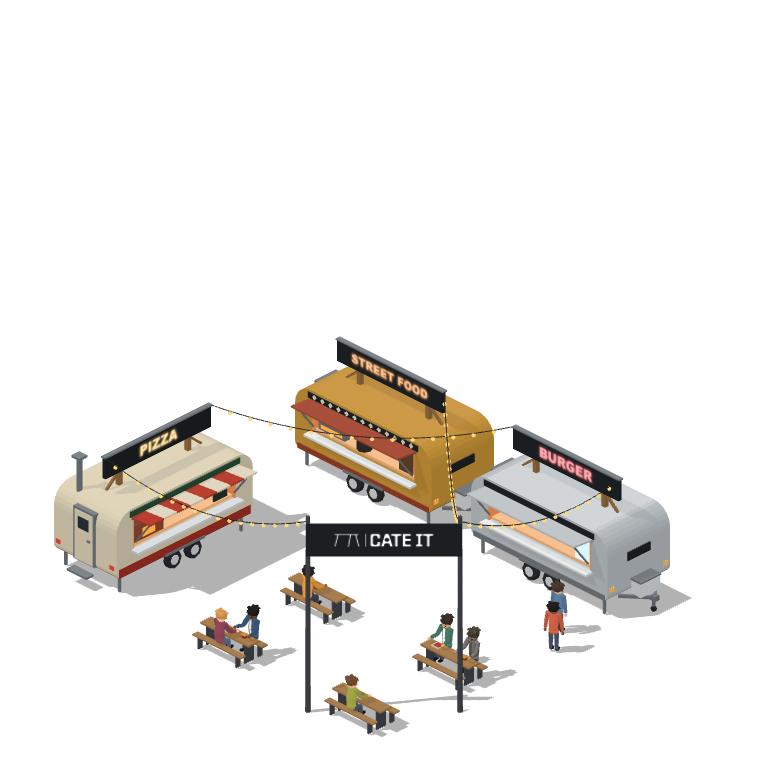
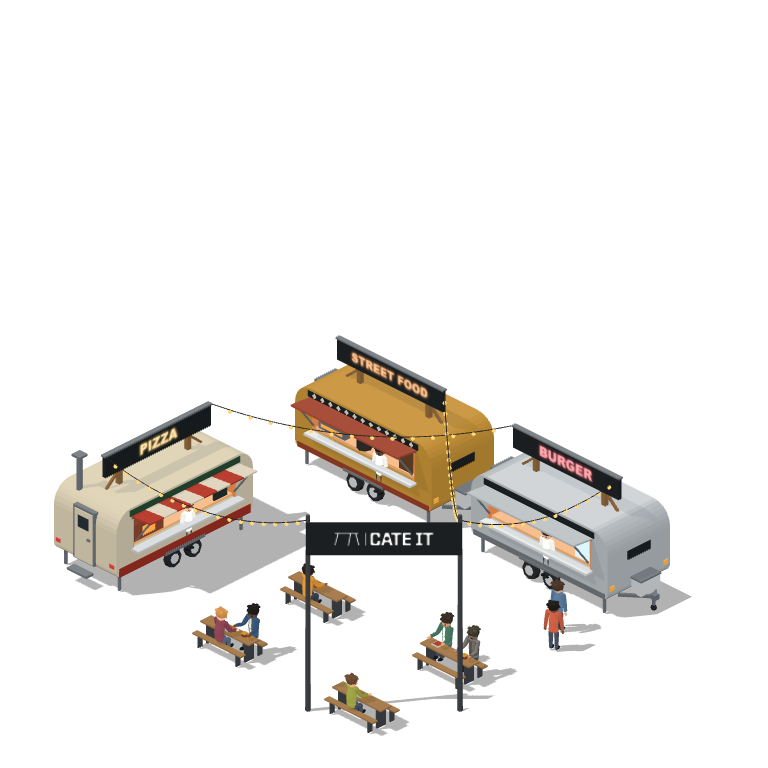
Food truck square: a cook in each hatch who waves when you step up and hands the food over; the camera eases in at the hatch
Gustav, 2026-10-21 (options A, B, C and F): a cook stands behind each counter (low and forward, under the awning's
shadow line from the city camera). New BuildingDefinition.reactions: strips cut out of the still sprite like the ambient
loop; MainScene plays the wave once when the player comes within the radius, serveThenWalk() plays the hand-over (the
food on the counter) before the avatar walks to its table, and the strips pause while the visitor sits. Hatch cards
carry zoomIn: the camera eases in one zoom step while the card is open and back out after. city_truck_loop.mjs logs the
zoom and shoots the hand-over; natural: true keeps the city's own camera.

diff --git a/components/city/pogicity/phaser/MainScene.ts b/components/city/pogicity/phaser/MainScene.ts
@@ -246,6 +246,9 @@ export class MainScene extends Phaser.Scene {
           frameWidth: building.ambient.frameWidth, frameHeight: building.ambient.frameHeight,
         });
       }
+      (building.reactions ?? []).forEach((r, i) => {
+        this.load.spritesheet(`${building.id}_reaction${i}`, r.sheet, { frameWidth: r.frameWidth, frameHeight: r.frameHeight });
+      });
       if (building.nightLights) {
         this.load.spritesheet(`${building.id}_lights`, building.nightLights.sheet, {
           frameWidth: building.nightLights.frameWidth, frameHeight: building.nightLights.frameHeight,
@@ -442,6 +445,7 @@ export class MainScene extends Phaser.Scene {
     this.updateInteriorState(playerPos.gridX, playerPos.gridY);
     this.updateDoors();
     this.updateMoments();
+    this.updateReactions();
 
     // Render player
     this.playerController.render((x, y, offset) => this.depthFromSortPoint(x, y, offset));
@@ -1625,6 +1629,24 @@ export class MainScene extends Phaser.Scene {
     this.activeBeat = key;
     this.beatSince = this.time.now;
     this.events.emit("interiorBeatChanged", next);
+    this.updateBeatZoom(next && INTERIOR_BEATS[next.buildingId]?.[next.beat]?.zoomIn ? key : null);
+  }
+
+  // Cards with zoomIn (the food truck hatches): ease in one zoom step on the player while the card is open, back after
+  private beatZoomFrom: { key: string; zoom: number } | null = null;
+  private updateBeatZoom(key: string | null): void {
+    if ((this.beatZoomFrom?.key ?? null) === key) return;
+    const camera = this.cameras.main;
+    const p = this.playerController!.getPosition();
+    if (key && !this.beatZoomFrom) {
+      this.beatZoomFrom = { key, zoom: camera.zoom };
+      const target = Math.min(Math.floor(camera.zoom) + 1, 8);
+      this.moveCamera(p.worldX - camera.width / 2, p.worldY - camera.height / 2, target);
+    } else if (!key && this.beatZoomFrom) {
+      const zoom = this.beatZoomFrom.zoom;
+      this.beatZoomFrom = null;
+      this.moveCamera(p.worldX - camera.width / 2, p.worldY - camera.height / 2, zoom);
+    } else if (key && this.beatZoomFrom) this.beatZoomFrom.key = key;
   }
 
   // Sit-and-look moments (lib/city/interiorBeats.ts seat): a short pause on the stand tile, then the avatar walks into
@@ -2302,6 +2324,7 @@ export class MainScene extends Phaser.Scene {
     this.buildingSpriteInfo.clear();
     this.doors.clear();
     this.ambients.clear();
+    this.reactions.clear();
 
     for (let y = 0; y < GRID_HEIGHT; y++) {
       for (let x = 0; x < GRID_WIDTH; x++) {
@@ -2351,6 +2374,11 @@ export class MainScene extends Phaser.Scene {
       this.buildingSprites.delete(`${buildingKey}_ambient`);
     }
     this.ambients.delete(buildingKey);
+    for (let i = 0; this.buildingSprites.has(`${buildingKey}_reaction${i}`); i++) {
+      this.buildingSprites.get(`${buildingKey}_reaction${i}`)?.destroy();
+      this.buildingSprites.delete(`${buildingKey}_reaction${i}`);
+      this.reactions.delete(`${buildingKey}_reaction${i}`);
+    }
     const lightsSprite = this.buildingSprites.get(`${buildingKey}_lights`);
     if (lightsSprite) {
       lightsSprite.destroy();
@@ -2442,6 +2470,22 @@ export class MainScene extends Phaser.Scene {
       image.setDepth(sprite.depth + 0.04);
       this.buildingSprites.set(`${key}_ambient`, image);
       this.ambients.set(key, { image, frames: ambient.frames, fps: ambient.fps });
+    }
+
+    // Reactions (the food truck cooks): same crop maths as the ambient loop, frame 0 shown until the visitor comes near
+    if (!orientation || orientation === Direction.Down) {
+      (building.reactions ?? []).forEach((r, i) => {
+        if (!this.textures.exists(`${building.id}_reaction${i}`)) return;
+        const s = sprite.scaleX;
+        const left = sprite.x - sprite.width * s / 2;
+        const top = sprite.y - sprite.height * s;
+        const image = this.add.image(left + r.x * s, top + r.y * s, `${building.id}_reaction${i}`, 0);
+        image.setOrigin(0, 0);
+        image.setScale(s);
+        image.setDepth(sprite.depth + 0.042);
+        this.buildingSprites.set(`${key}_reaction${i}`, image);
+        this.reactions.set(`${key}_reaction${i}`, { image, buildingId, index: i, originX, originY, mode: 'idle', value: 0, near: false });
+      });
     }
 
     // Night lights: same crop maths as the ambient loop, untinted and faded in with the night (updateNight)
@@ -2627,6 +2671,48 @@ export class MainScene extends Phaser.Scene {
     });
   }
 
+  // Reactions by `${building key}_reaction${index}` (the food truck cooks): idle at frame 0; a wave plays once when the
+  // player steps within `radius`; serve() plays the hand-over and holds it until the player leaves
+  private reactions: Map<string, { image: Phaser.GameObjects.Image; buildingId: string; index: number; originX: number; originY: number;
+    mode: 'idle' | 'wave' | 'serve'; value: number; near: boolean }> = new Map();
+
+  private updateReactions(): void {
+    if (!this.playerController || this.reactions.size === 0) return;
+    const pos = this.playerController.getPosition();
+    const dt = this.game.loop.delta / 1000;
+    this.reactions.forEach((r) => {
+      const def = getBuilding(r.buildingId)?.reactions?.[r.index];
+      if (!def || !r.image.active) return;
+      const near = Math.hypot(pos.gridX + 0.5 - (r.originX + def.at[0]), pos.gridY + 0.5 - (r.originY + def.at[1])) <= def.radius;
+      if (near && !r.near && r.mode === 'idle') { r.mode = 'wave'; r.value = 1; }
+      if (!near && r.mode !== 'serve') r.mode = 'idle';
+      if (!near && r.mode === 'serve' && this.seated?.buildingId !== r.buildingId && !this.seatPending) r.mode = 'idle';
+      r.near = near;
+      if (r.mode === 'wave') {
+        r.value += dt * def.fps;
+        if (r.value >= def.wave) { r.mode = 'idle'; r.value = 0; }
+      } else if (r.mode === 'serve') {
+        r.value = Math.min(def.frames - 1, r.value + dt * def.fps);
+      } else r.value = 0;
+      r.image.setVisible(this.seated?.buildingId !== r.buildingId);
+      r.image.setFrame(Math.floor(r.value));
+    });
+  }
+
+  /** The cook at a hatch hands the food over (its reaction's serve frames), then the avatar walks to `to` (a card's
+   *  "Eat"). Without a reaction for the beat it walks at once. */
+  serveThenWalk(buildingId: string, beat: string, to: string): void {
+    let ms = 0;
+    this.reactions.forEach((r) => {
+      const def = getBuilding(r.buildingId)?.reactions?.[r.index];
+      if (r.buildingId !== buildingId || def?.beat !== beat) return;
+      r.mode = 'serve';
+      r.value = def.wave;
+      ms = ((def.frames - def.wave) / def.fps) * 1000 + 250;
+    });
+    this.time.delayedCall(ms, () => this.walkPlayerToBeat(buildingId, to));
+  }
+
   // Interior moments by `${building key}_moment${index}`: current frame position (0..frames)
   private moments: Map<string, { image: Phaser.GameObjects.Image; buildingId: string; index: number; originX: number; originY: number; value: number }> = new Map();
 
@@ -2695,6 +2781,9 @@ export class MainScene extends Phaser.Scene {
       const textureKey = this.getBuildingTextureKey(building, info.orientation);
       // The ambient loop is cut out of the still sprite: a seated frame is whole, so the loop pauses while the avatar sits
       this.buildingSprites.get(`${key}_ambient`)?.setVisible(this.seated?.buildingId !== buildingId);
+      for (let i = 0; this.buildingSprites.has(`${key}_reaction${i}`); i++) {
+        this.buildingSprites.get(`${key}_reaction${i}`)?.setVisible(this.seated?.buildingId !== buildingId);
+      }
       if (!sprite || sprite.texture.key === textureKey || !this.textures.exists(textureKey)) return;
       const previous = this.add.image(sprite.x, sprite.y, sprite.texture.key);
       previous.setOrigin(0.5, 1);

diff --git a/lib/city/models/cateItSquareStates.ts b/lib/city/models/cateItSquareStates.ts
@@ -82,7 +82,11 @@ function signFace(truck: Truck, signs: Signs): THREE.Mesh | null {
 
 /** `t` (0..1) is the phase of the guests' ambient loop (export_square.sh renders the frames); 0 is the still sprite.
  *  `signs`: what the roof signs show. */
-export function createCateItSquareModel(options: Options = {}, t = 0, signs: Signs = 'food', lightsPass = false, twinkle = 0): THREE.Group {
+/** A cook's reaction frame (export_square.sh renders the strips): `truck`'s cook at frame `frame` of COOK_FRAMES */
+export type CookFrame = { truck: Truck; frame: number } | null;
+
+export function createCateItSquareModel(options: Options = {}, t = 0, signs: Signs = 'food', lightsPass = false, twinkle = 0,
+  cookFrame: CookFrame = null): THREE.Group {
   const group = new THREE.Group();
   group.name = 'Food truck square';
   // No pad of its own: the city draws its paving under the plot, so the ground stays transparent and only catches the
@@ -102,6 +106,7 @@ export function createCateItSquareModel(options: Options = {}, t = 0, signs: Sig
     model.traverse((o) => { if (o.name === 'Ground pad') o.visible = false; });   // the trailer's own 4 x 2 pad
     const face = signFace(truck, signs);
     if (face) model.add(face);
+    model.add(createCook(truck, options, cookFrame?.truck === truck ? cookFrame.frame : 0));
     group.add(model);
   }
   for (const t of TABLES) {
@@ -291,6 +296,52 @@ function addHalos(g: THREE.Group, material: THREE.SpriteMaterial): void {
   }
 }
 
+/** The cooks (Gustav, 2026-10-21: someone in each hatch, who reacts when you step up and hands the food over). Each stands
+ *  in its trailer's shallow kitchen, in the trailer's own frame (x along it, +Z out through the hatch), right behind the counter,
+ *  in whites. Frames: 0 idle, 1..COOK_WAVE-1 a wave (arm up, two wags, down), then COOK_SERVE frames of the hand-over
+ *  (arms forward, the food box on the counter from the third). */
+export const COOK_WAVE = 6;
+export const COOK_SERVE = 4;
+export const COOK_FRAMES = COOK_WAVE + COOK_SERVE;
+const COOK: Record<Truck, { x: number; skin: string; hair: string }> = {
+  burger: { x: 0.15, skin: '#d9a07c', hair: '#2b211b' },
+  pizza: { x: 0.1, skin: '#e6b79a', hair: '#5a3b26' },
+  african: { x: 0.35, skin: '#5e3b28', hair: '#151110' },
+};
+
+function createCook(truck: Truck, options: Options, frame: number): THREE.Group {
+  const g = new THREE.Group();
+  g.name = `cook-${truck}`;
+  const { x, skin, hair } = COOK[truck];
+  const look: Guest = { at: [0, 0], yawDeg: 0, meal: truck, move: 'look', stand: true, skin, hair, jacket: '#f3f0e8', tee: '#f3f0e8', jeans: '#2b2f36' };
+  const person = createGustavAvatar({ laptop: false, castShadow: options?.castShadow ?? true });
+  dress(person, look);
+  person.position.set(x, 0.22, 0.42);   // low and forward: the awning hides the upper kitchen from the city camera
+  const rig = person.userData.avatar as AvatarRig;
+  rig.rest();
+  if (frame > 0 && frame < COOK_WAVE) {
+    const k = frame / (COOK_WAVE - 1);
+    const up = Math.sin(Math.PI * Math.min(1, k * 1.25));             // arm up, then down at the end
+    rig.bones['upper-arm-r']?.rotateX(-2.3 * up);
+    rig.bones['forearm-r']?.rotateZ(0.5 * Math.sin(4 * Math.PI * k) * up);
+    rig.bones.head?.rotateZ(0.08 * up);
+  } else if (frame >= COOK_WAVE) {
+    const p = (frame - COOK_WAVE + 1) / COOK_SERVE;
+    for (const side of ['l', 'r']) {
+      rig.bones[`upper-arm-${side}`]?.rotateX(-1.1 * p);
+      rig.bones[`forearm-${side}`]?.rotateX(-0.5 * p);
+    }
+    if (frame - COOK_WAVE >= 2) {
+      const meal = createSquareMeal(truck, options);
+      meal.position.set(x, 0.76 - 0.02 - TABLE_TOP, 0.56);   // on the counter shelf
+      g.add(meal);
+    }
+  }
+  person.updateMatrixWorld(true);
+  g.add(person);
+  return g;
+}
+
 /** Guests at the tables, baked into the square's sprite: seat (plan tiles), facing (0 = south, 180 = north), their food,
  *  and clothes. They keep clear of the three seats the visitor's avatar uses (SEATS). */
 type Guest = { at: [number, number]; yawDeg: number; meal: Truck; move: 'bite' | 'look' | 'chat'; stand?: boolean; skin: string; hair: string; jacket: string; tee: string; jeans: string };
@@ -310,12 +361,8 @@ const GUEST_COLOURS: Record<string, keyof Guest> = {
   skin: 'skin', hair: 'hair', 'hair-light': 'hair', jacket: 'jacket', 'jacket-shade': 'jacket', tee: 'tee', jeans: 'jeans',
 };
 
-/** One seated guest: the city avatar's model in other clothes, no glasses or laptop, with a meal in front. `u` is the
- *  guest's own phase in the loop: a bite (right hand up to the mouth), a look around, or a lean in to chat. */
-function createGuest(guest: Guest, options: Options, u = 0): THREE.Group {
-  const g = new THREE.Group();
-  g.name = 'guest';
-  const person = createGustavAvatar({ laptop: false, castShadow: options?.castShadow ?? true });
+/** The city avatar's model in other clothes, skin and hair; no glasses */
+function dress(person: THREE.Group, guest: Guest): void {
   const shade = (hex: string, f: number) => new THREE.Color(hex).multiplyScalar(f);
   person.traverse((o) => {
     const mesh = o as THREE.Mesh;
@@ -329,6 +376,15 @@ function createGuest(guest: Guest, options: Options, u = 0): THREE.Group {
     if (m.emissive) m.emissive.copy(m.color);
     mesh.material = m;
   });
+}
+
+/** One seated guest: the city avatar's model in other clothes, no glasses or laptop, with a meal in front. `u` is the
+ *  guest's own phase in the loop: a bite (right hand up to the mouth), a look around, or a lean in to chat. */
+function createGuest(guest: Guest, options: Options, u = 0): THREE.Group {
+  const g = new THREE.Group();
+  g.name = 'guest';
+  const person = createGustavAvatar({ laptop: false, castShadow: options?.castShadow ?? true });
+  dress(person, guest);
   const [x, z] = plan(guest.at);
   person.position.set(x, 0.02, z);
   person.rotation.y = THREE.MathUtils.degToRad(guest.yawDeg);

diff --git a/lib/city/buildings.ts b/lib/city/buildings.ts
@@ -44,6 +44,11 @@ export interface BuildingDefinition {
   // Ambient loop (docs/city-rules.md section 9): a strip of frames cropped from the south sprite like `door` (x, y = the
   // crop's top-left in sprite pixels), drawn over the building and played in a loop at `fps`
   ambient?: { sheet: string; frames: number; frameWidth: number; frameHeight: number; x: number; y: number; fps: number };
+  // Reactions to the visitor (the food truck cooks): strips of frames cropped from the south sprite like `ambient` (the
+  // moving pixels are cut out of the still sprite, so frame 0 is always drawn). When the player comes within `radius` of
+  // `at` (local tiles) frames 1..wave-1 play once (a wave); serve() plays frames wave..frames-1 and holds (the hand-over);
+  // away again, it goes back to frame 0. `beat` ties it to a walk-in stand tile (lib/city/interiorBeats.ts).
+  reactions?: { beat: string; sheet: string; frames: number; frameWidth: number; frameHeight: number; x: number; y: number; at: [number, number]; radius: number; fps: number; wave: number }[];
   // Lights on at night (docs/city-rules.md section 9): frames cropped from the south sprite like `ambient`, in a grid
   // sheet, drawn untinted over the night-tinted building while the city is dark (MainScene.setNight)
   nightLights?: { sheet: string; frames: number; frameWidth: number; frameHeight: number; x: number; y: number; fps: number };
@@ -501,13 +506,20 @@ export const BUILDINGS: Record<string, BuildingDefinition> = {
     // south sprite and renders them per frame; paused while the visitor sits (the seated frames are whole)
     ambient: {
       sheet: "/game/pogicity/Building/landmark/cate-it-square-guests_south.png",
-      frames: 12, frameWidth: 396, frameHeight: 144, x: 210, y: 562, fps: 4,
+      frames: 12, frameWidth: 396, frameHeight: 146, x: 210, y: 560, fps: 4,
     },
+    // The cooks: a wave when the visitor steps up to the hatch, the hand-over after "Eat" (export_square.sh, frames 0 idle,
+    // 1-5 wave, 6-9 serve)
+    reactions: [
+      { beat: "hatch-burger", sheet: "/game/pogicity/Building/landmark/cate-it-square-cook-burger_south.png", frames: 10, frameWidth: 56, frameHeight: 72, x: 522, y: 526, at: [6.5, 2.5], radius: 1, fps: 7, wave: 6 },
+      { beat: "hatch-pizza", sheet: "/game/pogicity/Building/landmark/cate-it-square-cook-pizza_south.png", frames: 10, frameWidth: 34, frameHeight: 38, x: 178, y: 502, at: [2.5, 5.5], radius: 1, fps: 7, wave: 6 },
+      { beat: "hatch-african", sheet: "/game/pogicity/Building/landmark/cate-it-square-cook-african_south.png", frames: 10, frameWidth: 54, frameHeight: 72, x: 356, y: 442, at: [2.5, 2.5], radius: 1, fps: 7, wave: 6 },
+    ],
     // Lit at night: the hatches, the neon food names, the fairy lights across the trucks, the marker lights and the banner
     // (export_square.sh lights pass); two frames, every third bulb dimmer on the second, so the strings twinkle slowly
     nightLights: {
       sheet: "/game/pogicity/Building/landmark/cate-it-square-lights_south.png",
-      frames: 2, frameWidth: 616, frameHeight: 400, x: 54, y: 350, fps: 1,
+      frames: 2, frameWidth: 616, frameHeight: 400, x: 54, y: 348, fps: 1,
     },
     icon: "🚚",
     projectSlug: "cate-it",

diff --git a/lib/city/interiorBeats.ts b/lib/city/interiorBeats.ts
@@ -20,6 +20,8 @@ export interface InteriorBeat {
   /** Buttons on the card. `to` is another beat of the same building: with `walk` the avatar walks to its stand tile
    *  (its card opens there), without it the card changes to that beat in place. `id` names the choice for analytics. */
   choices?: { id: string; label: string; to: string; walk?: boolean }[];
+  /** Ease the camera in one zoom step on the player while this card is open, and back out when it closes (the hatches) */
+  zoomIn?: boolean;
 }
 
 // Stand-tile beats (desk, room, lunch) open on their standSpot tile. "enter" and "leave" are door beats: they open when
@@ -107,6 +109,7 @@ export const INTERIOR_BEATS: Record<string, Record<string, InteriorBeat>> = {
   // Seats: lib/city/models/cateItSquareStates.ts SEATS, no screens, so the card stays. Draft texts for Gustav to edit.
   "cate-it": {
     "hatch-burger": {
+      zoomIn: true,
       kicker: "Cate it · burger trailer",
       lead: "Hungry, or planning an event?",
       text: "Cate it connects local food trucks with people who plan events. I co-founded it and designed it.",
@@ -116,6 +119,7 @@ export const INTERIOR_BEATS: Record<string, Record<string, InteriorBeat>> = {
       ],
     },
     "hatch-pizza": {
+      zoomIn: true,
       kicker: "Cate it · pizza trailer",
       lead: "Hungry, or planning an event?",
       text: "Cate it connects local food trucks with people who plan events. I co-founded it and designed it.",
@@ -125,6 +129,7 @@ export const INTERIOR_BEATS: Record<string, Record<string, InteriorBeat>> = {
       ],
     },
     "hatch-african": {
+      zoomIn: true,
       kicker: "Cate it · street food trailer",
       lead: "Hungry, or planning an event?",
       text: "Cate it connects local food trucks with people who plan events. I co-founded it and designed it.",

diff --git a/app/tools/sprite-converter/entrance-lab/EntranceLab.tsx b/app/tools/sprite-converter/entrance-lab/EntranceLab.tsx
@@ -425,7 +425,9 @@ const MODELS: Record<string, ModelConfig> = {
     // ?t= guests' loop phase, ?signs=logo|food|blank, ?lights=1 the night lights pass, ?twinkle=1 its second frame
     create: (options) => {
       const q = new URLSearchParams(window.location.search);
-      return createCateItSquareModel(options, Number(q.get('t') ?? 0), (q.get('signs') ?? 'food') as Signs, q.get('lights') === '1', Number(q.get('twinkle') ?? 0));   // ?lights=1 night pass, ?twinkle=1
+      const cook = q.get('cook') as Truck | null;   // ?cook=<truck>&cf=<frame>: a cook's reaction frame
+      return createCateItSquareModel(options, Number(q.get('t') ?? 0), (q.get('signs') ?? 'food') as Signs, q.get('lights') === '1',
+        Number(q.get('twinkle') ?? 0), cook ? { truck: cook, frame: Number(q.get('cf') ?? 0) } : null);
     },
     lights: stadium.createAarhusStadiumLookDevLights,
     environment: stadium.createAarhusStadiumEnvironment,

diff --git a/components/city/CityViewer.tsx b/components/city/CityViewer.tsx
@@ -777,7 +777,7 @@ export default function CityViewer({
             trackBeatChoice(shownCard.buildingId, shownCard.beat, choice.id);
             if (!choice.walk) { setChoiceCard({ buildingId: shownCard.buildingId, beat: choice.to }); return; }
             const scene = gameBoardRef.current?.getGameInstance()?.scene.getScene("MainScene") as MainScene | undefined;
-            scene?.walkPlayerToBeat(shownCard.buildingId, choice.to);
+            scene?.serveThenWalk(shownCard.buildingId, shownCard.beat, choice.to);
           }}
         />
       )}
